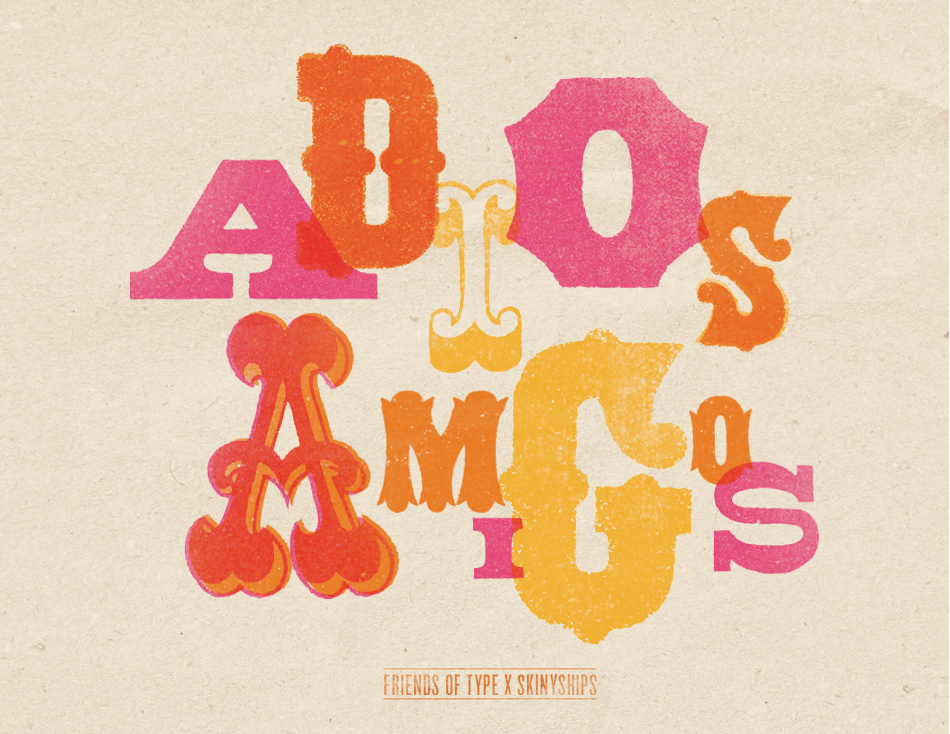
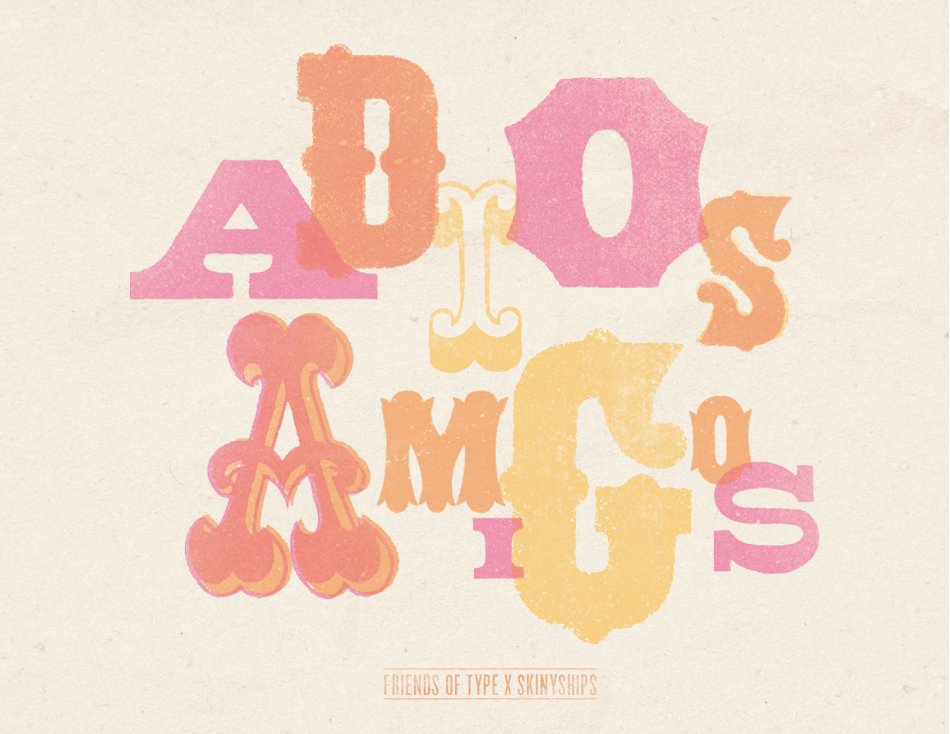
changes css for firefox

diff --git a/message/static/message/style.css b/message/static/message/style.css
@@ -2,9 +2,6 @@ body{
   background-image: url("images/adios.jpg");
   background-position: top;
   background-repeat: no-repeat;
-  background-size: contain;
-  background-color: rgba(255,255,255,0.6);
-  background-blend-mode: lighten;
 
 }
 

diff --git a/adios/settings.py b/adios/settings.py
@@ -27,7 +27,8 @@ DEBUG = True
 
 ALLOWED_HOSTS = [
     '192.168.1.7',
-    '127.0.0.1'
+    '127.0.0.1',
+    'localhost'
 ]
 
 
